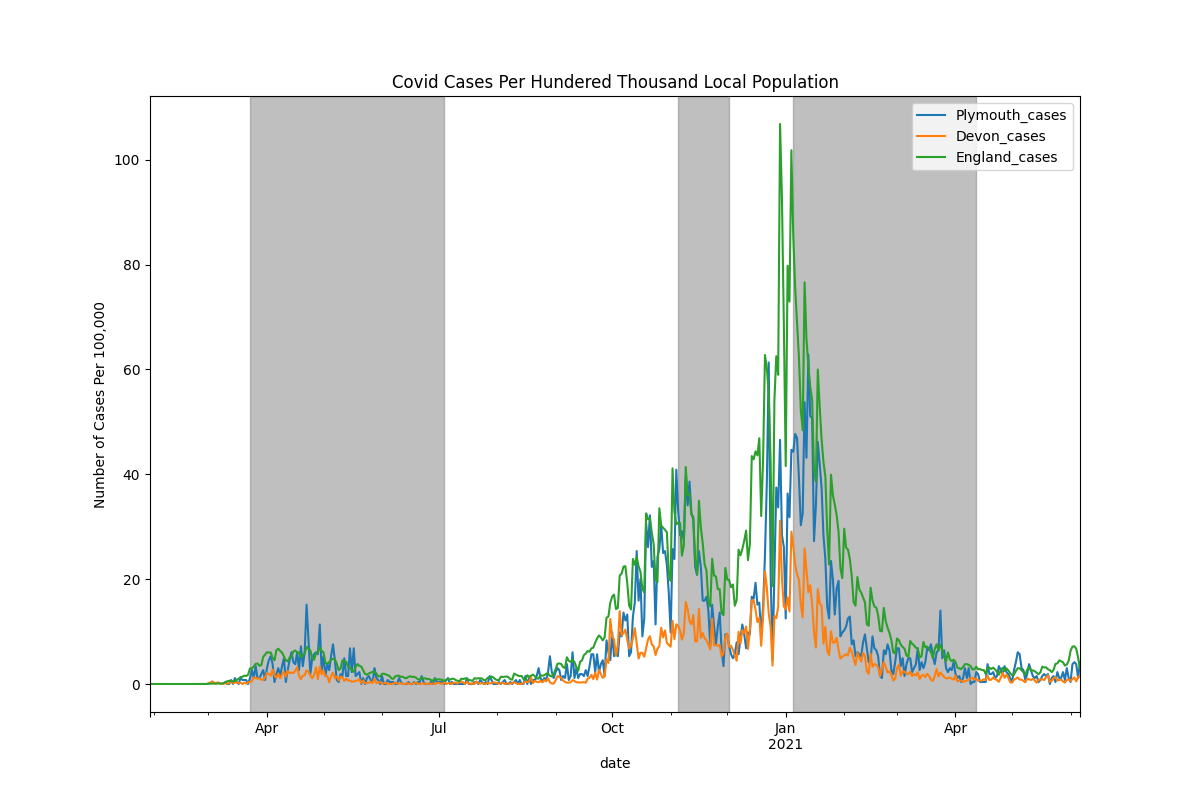
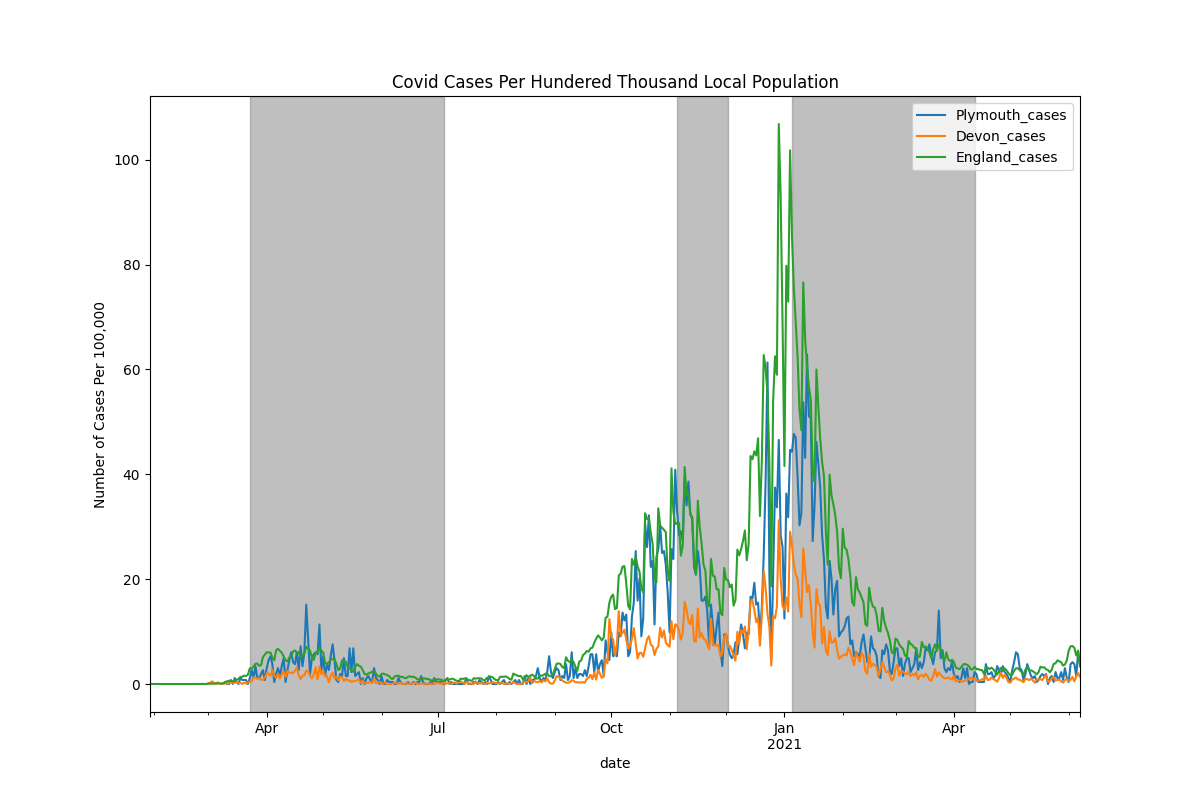
update-data

diff --git a/index.md b/index.md
@@ -7,4 +7,4 @@ Grey sections are used to identify national lockdowns, of various strengths.
 ![Covid Rates Per 100000](images/plymouth_covid_graph_pht.png "Plymouth Covid Graph Per 100000 ")
 
 
-Last updated on: 08 June 2021
+Last updated on: 09 June 2021
